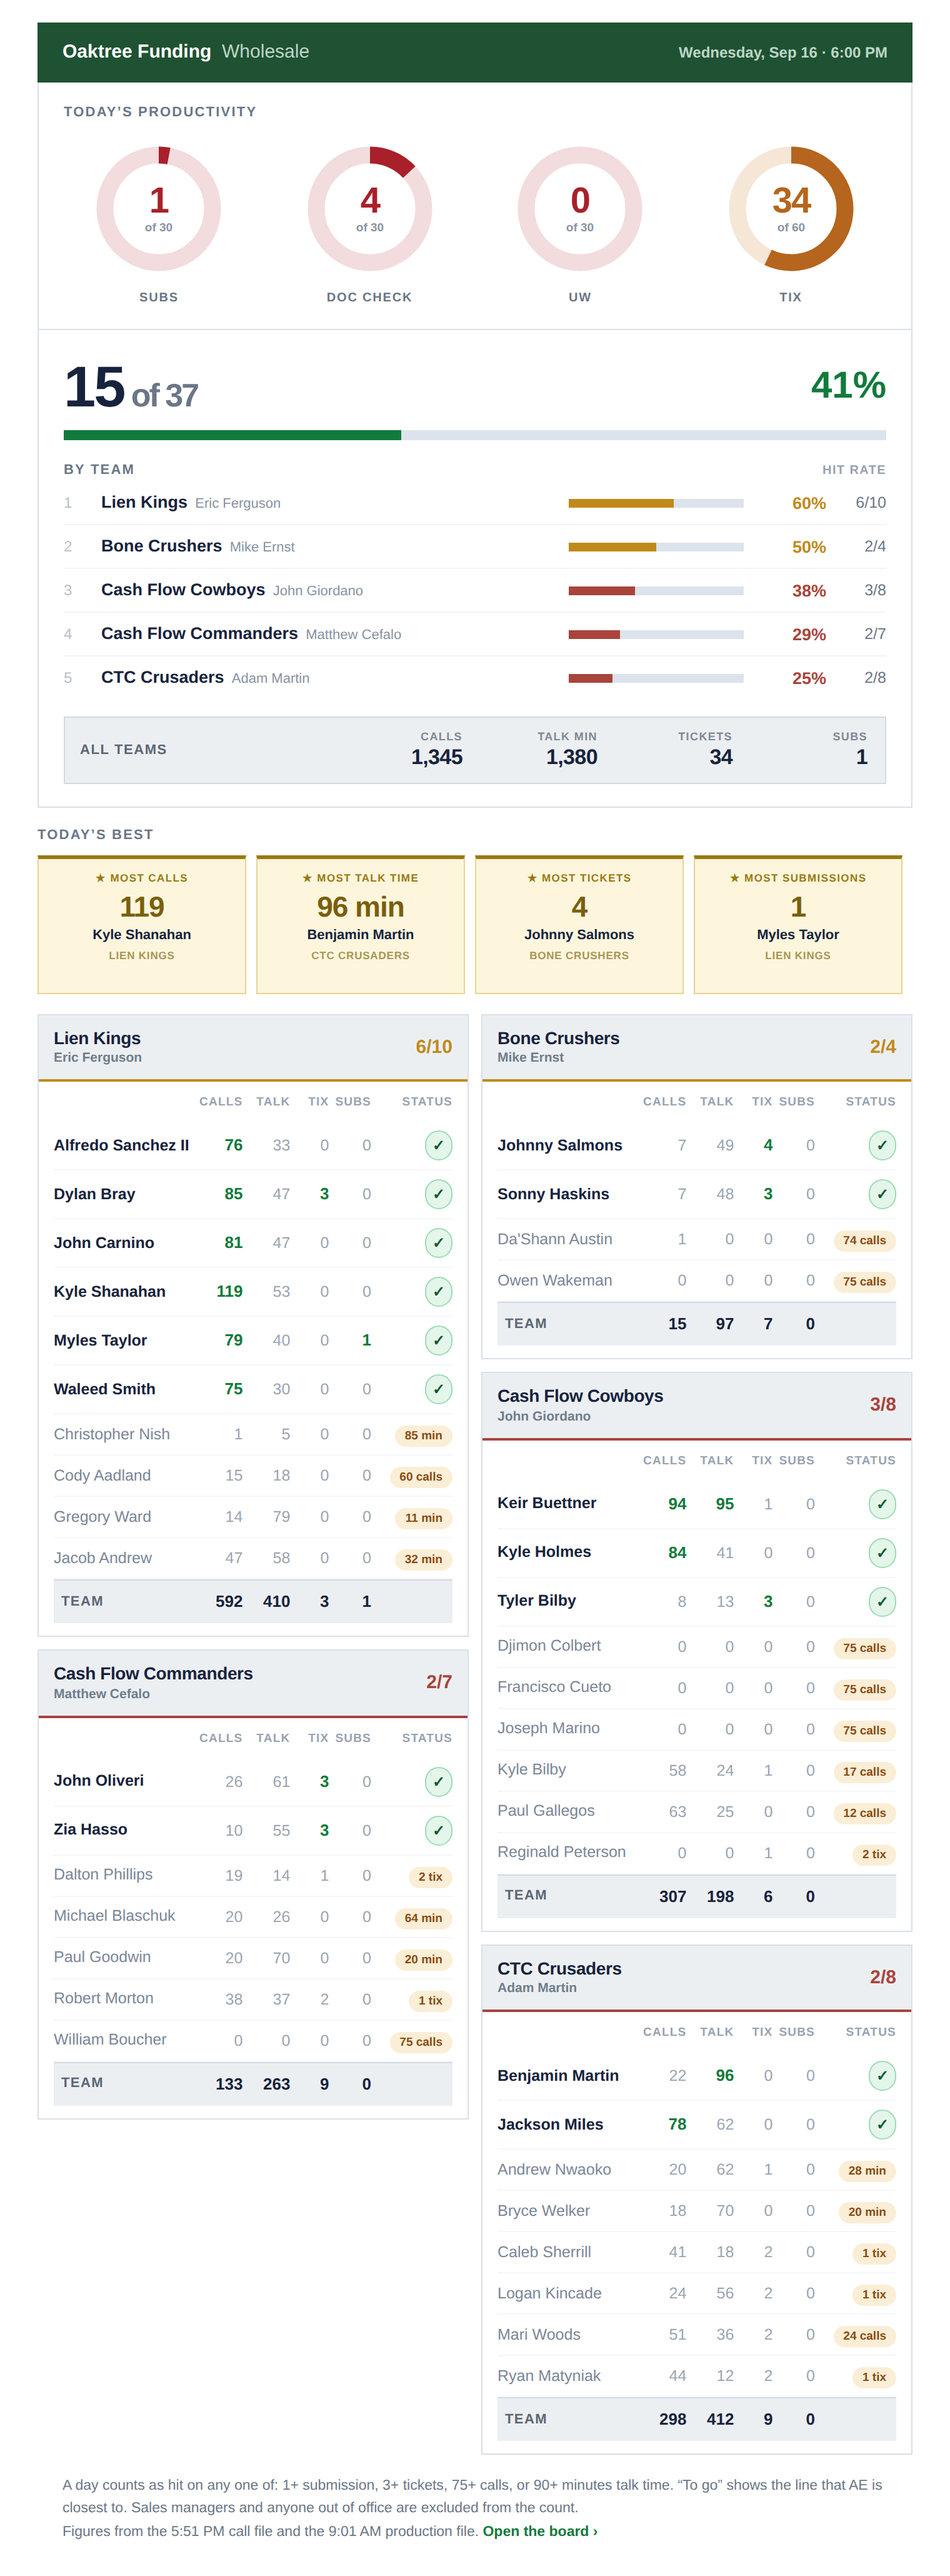
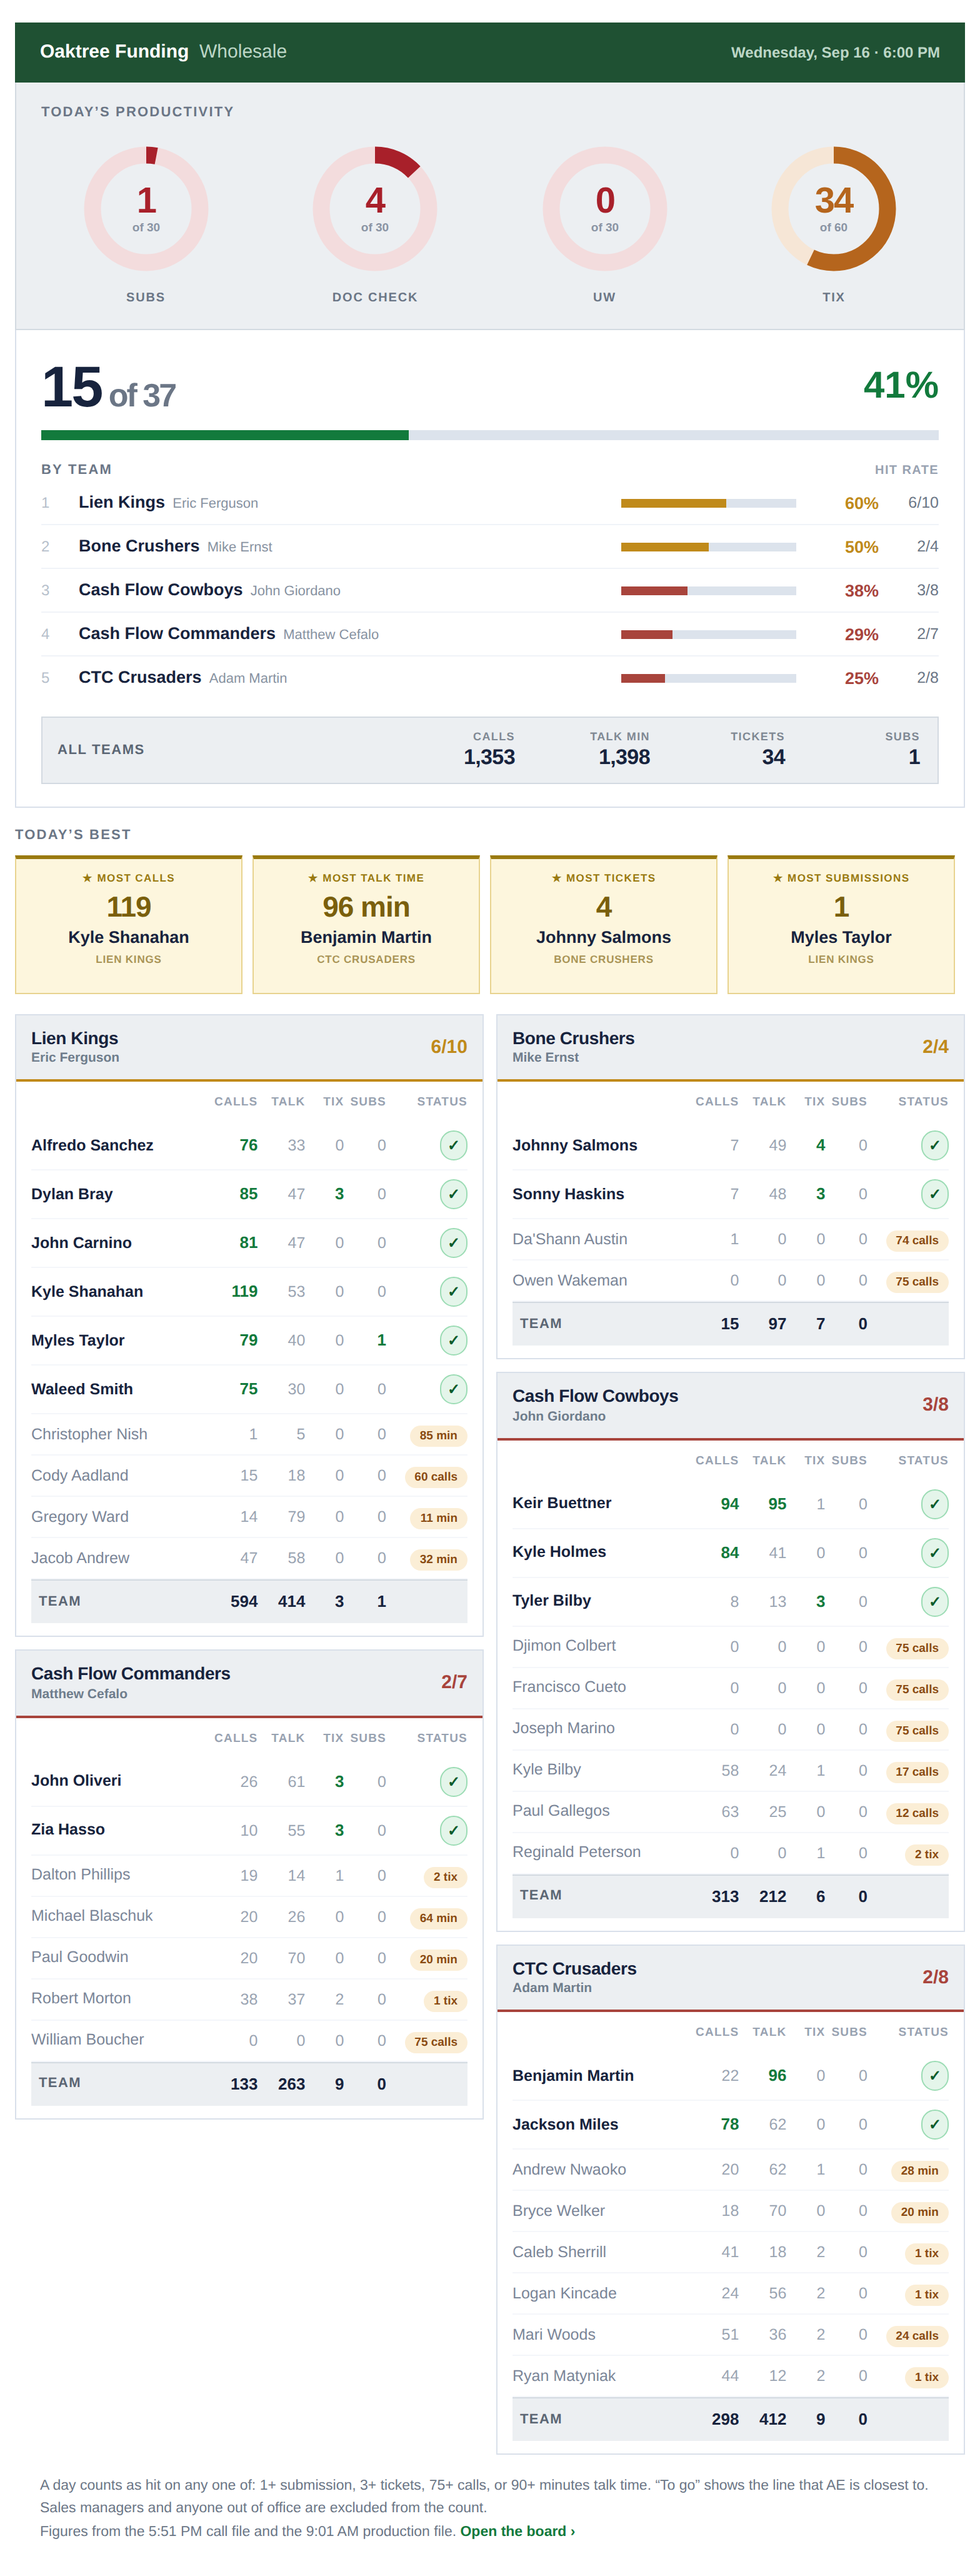
Email fixes

diff --git a/board/lib/digest.ts b/board/lib/digest.ts
@@ -11,7 +11,7 @@
 
 import type { BoardData } from "./board";
 
-const PAGE_W = 700;
+const PAGE_W = 760;
 const CALLS_GOAL = 75, TALK_GOAL = 90, SUB_GOAL = 1, TIX_GOAL = 3;
 
 const F = "-apple-system,BlinkMacSystemFont,'Segoe UI',Roboto,Helvetica,Arial,sans-serif";
@@ -29,7 +29,7 @@ type AE = {
    *  a hit the denominator never counted. */
   exempt: boolean;
 };
-type Team = { team: string; aes: AE[]; sidelined: { name: string; why: string }[]; manager: string | null; hit: number; n: number; pct: number };
+type Team = { team: string; aes: AE[]; sidelined: { name: string; why: string }[]; hidden: { calls: number; talk: number; tix: number; subs: number }[]; manager: string | null; hit: number; n: number; pct: number };
 
 /** Team rollups, using exactly the board's inclusion rules. */
 export function digestTeams(b: BoardData): { teams: Team[]; hit: number; total: number; pct: number } {
@@ -39,15 +39,21 @@ export function digestTeams(b: BoardData): { teams: Team[]; hit: number; total: 
 
   for (const r of b.rows) {
     const name = r[0], team = teamOf(r[1]);
-    if (!byTeam.has(team)) byTeam.set(team, { team, aes: [], sidelined: [], manager: null, hit: 0, n: 0, pct: 0 });
+    if (!byTeam.has(team)) byTeam.set(team, { team, aes: [], sidelined: [], hidden: [], manager: null, hit: 0, n: 0, pct: 0 });
     const g = byTeam.get(team)!;
-    if (ooo.has(name)) { g.sidelined.push({ name, why: "Out of office" }); continue; }
+    const raw = b.today[name] || [0, 0, 0];
+    const asHidden = () => g.hidden.push({
+      calls: raw[0], talk: Math.round(raw[1]), tix: b.tix[name] || 0, subs: raw[2],
+    });
+    if (ooo.has(name)) { g.sidelined.push({ name, why: "Out of office" }); asHidden(); continue; }
     if (dash.has(name)) {
       const role = b.roles?.[name];
       // A sales manager is named once in the card header, by the roster map
-      // below, and never as a dashed row among the people he manages.
-      if (role === "Sales Manager") continue;
+      // below, and never as a dashed row among the people he manages. His
+      // production still lands in the team total.
+      if (role === "Sales Manager") { asHidden(); continue; }
       g.sidelined.push({ name, why: role || "Not scored" });
+      asHidden();
       continue;
     }
     const isExempt = exempt.has(name);
@@ -224,7 +230,7 @@ const TILE_H = 86;
         + face
         + `<div style="font-family:${F};font-size:8.5px;font-weight:700;line-height:1.2;color:${dim ? "#98a2b1" : ac};letter-spacing:.7px">${!dim && gold ? "\u2605 " : ""}${l.label}</div>`
         + `<div style="font-family:${F};font-size:23px;font-weight:800;line-height:1.15;color:${dim ? "#c3cbd6" : gold ? "#7a5f0c" : ac};letter-spacing:-.5px;padding:5px 0 3px">${l.value}</div>`
-        + `<div style="font-family:${F};font-size:11px;font-weight:600;line-height:1.3;color:${INK}">${who}</div>${tie}</td></tr>`)
+        + `<div style="font-family:${F};font-size:13.5px;font-weight:700;line-height:1.3;color:${INK}">${who}</div>${tie}</td></tr>`)
       + `</td>`;
   };
   return `<tr><td style="padding:0 0 6px">`
@@ -290,8 +296,10 @@ function aeRow(a: AE) {
 /** What the team actually did today, across every row printed above it. Talk is
  *  minutes, so it sums; the others are counts. Sidelined rows contribute
  *  nothing because they have nothing to contribute. */
-function totalRow(aes: AE[], band: { bg: string; line: string; ink: string }) {
-  const sum = (f: (a: AE) => number) => aes.reduce((t, a) => t + f(a), 0);
+function totalRow(aes: AE[], hidden: { calls: number; talk: number; tix: number; subs: number }[],
+                  band: { bg: string; line: string; ink: string }) {
+  const sum = (f: (a: { calls: number; talk: number; tix: number; subs: number }) => number) =>
+    aes.reduce((t, a) => t + f(a), 0) + hidden.reduce((t, h) => t + f(h), 0);
   const cell = (v: number | string, w: number) =>
     `<td width="${w}" align="right" style="padding:8px 0 8px 5px;background:${band.bg};border-top:1px solid ${band.line}">`
     + `<span style="font-family:${F};font-size:13px;font-weight:800;line-height:1.3;color:${INK}">${v}</span></td>`;
@@ -359,7 +367,7 @@ export function dialSpecs(b: BoardData): DialSpec[] {
 
 const DIAL_PX = 112;
 
-function dialsBlock(b: BoardData, src?: Partial<Record<DialSpec["key"], string>>): string {
+function dialsBlock(b: BoardData, band: { bg: string; line: string; ink: string }, src?: Partial<Record<DialSpec["key"], string>>): string {
   const cells = dialSpecs(b).map((d) => {
     const url = src?.[d.key];
     const art = url
@@ -379,7 +387,7 @@ function dialsBlock(b: BoardData, src?: Partial<Record<DialSpec["key"], string>>
       + `<div style="font-family:${F};font-size:10px;font-weight:700;line-height:1.2;color:${MUT};letter-spacing:.9px">${d.label}</div>`
       + `</td>`;
   }).join("");
-  return `<tr><td bgcolor="#ffffff" style="background:#ffffff;border:1px solid ${LINE};border-top:0;padding:18px 12px 18px">`
+  return `<tr><td bgcolor="${band.bg}" style="background:${band.bg};border:1px solid ${band.line};border-top:0;padding:18px 12px 18px">`
     + tbl(`width="100%"`,
       `<tr><td style="font-family:${F};font-size:11px;font-weight:700;line-height:1.2;color:${MUT};letter-spacing:1.1px;padding:0 8px 14px">TODAY&rsquo;S PRODUCTIVITY</td></tr>`)
     + tbl(`width="100%"`, `<tr>${cells}</tr>`)
@@ -436,12 +444,14 @@ export function renderDigest(
   const leader = teams[0];
   const url = opts.boardUrl || "#";
   const band = BANDS[opts.band || "stone"];
-  const everyone = teams.flatMap((g) => g.aes);
+  const everyone = [...teams.flatMap((g) => g.aes), ...teams.flatMap((g) => g.hidden)];
+  const tot = (f: (a: { calls: number; talk: number; tix: number; subs: number }) => number) =>
+    everyone.reduce((t, a) => t + f(a), 0);
   const allAEs = [
-    { label: "CALLS", value: everyone.reduce((t, a) => t + a.calls, 0) },
-    { label: "TALK MIN", value: everyone.reduce((t, a) => t + a.talk, 0) },
-    { label: "TICKETS", value: everyone.reduce((t, a) => t + a.tix, 0) },
-    { label: "SUBS", value: everyone.reduce((t, a) => t + a.subs, 0) },
+    { label: "CALLS", value: tot((a) => a.calls) },
+    { label: "TALK MIN", value: tot((a) => a.talk) },
+    { label: "TICKETS", value: tot((a) => a.tix) },
+    { label: "SUBS", value: tot((a) => a.subs) },
   ];
 
   const logos = opts.photos?.logos || {};
@@ -494,7 +504,7 @@ export function renderDigest(
   const teamPhotos = opts.photos?.teams || {};
   const teamCard = (g: Team) => {
     const c = tone(g.pct);
-    const rows = headerRow() + g.aes.map(aeRow).join("") + g.sidelined.map(sideRow).join("") + totalRow(g.aes, band);
+    const rows = headerRow() + g.aes.map(aeRow).join("") + g.sidelined.map(sideRow).join("") + totalRow(g.aes, g.hidden, band);
     const tp = teamPhotos[g.team];
     const pstyle = opts.teamPhotoStyle || "thumb";
     const clean = g.n > 0 && g.hit === g.n;
@@ -558,7 +568,7 @@ export function renderDigest(
       + `<td align="right" style="font-family:${F};font-size:12px;font-weight:600;line-height:1.2;color:#bcd6c6">${esc(opts.dateLabel)} &middot; ${esc(opts.sendLabel)}</td></tr>`)
     + `</td></tr>`
     + banner
-    + dialsBlock(b, opts.dialSrc)
+    + dialsBlock(b, band, opts.dialSrc)
     + `<tr><td bgcolor="#ffffff" style="background:#ffffff;border:1px solid ${LINE};border-top:0;padding:22px 20px 18px">`
     + tbl(`width="100%"`,
       `<tr><td style="font-family:${F};font-size:46px;font-weight:800;line-height:1;color:${INK};letter-spacing:-1.5px;white-space:nowrap">${hit}<span style="font-size:26px;font-weight:600;color:${MUT}"> of ${total}</span></td>`

diff --git a/board/lib/board.ts b/board/lib/board.ts
@@ -20,7 +20,7 @@ const TEAMS: Record<string, { channel: Channel; aes: string[] }> = {
   "Cash Flow Commanders": { channel: "wholesale", aes: ["Matthew Cefalo","John Oliveri","Paul Goodwin","Robert Morton","Zia Hasso","Michael Blaschuk","Dalton Phillips","William Boucher"] },
   "Cash Flow Cowboys": { channel: "wholesale", aes: ["John Giordano","Francisco Cueto","Keir Buettner","Kyle Bilby","Kyle Holmes","Paul Gallegos","Reginald Peterson","Tyler Bilby","Djimon Colbert","Joseph Marino"] },
   "CTC Crusaders": { channel: "wholesale", aes: ["Adam Martin","Andrew Nwaoko","Bryce Welker","Caleb Sherrill","Ryan Matyniak","Benjamin Martin","Logan Kincade","Mari Woods","Jackson Miles"] },
-  "Lien Kings": { channel: "wholesale", aes: ["Eric Ferguson","Alfredo Sanchez II","Christopher Nish","Cody Aadland","Dylan Bray","John Carnino","Myles Taylor","Waleed Smith","Gregory Ward","Jacob Andrew","Kyle Shanahan"] },
+  "Lien Kings": { channel: "wholesale", aes: ["Eric Ferguson","Alfredo Sanchez","Christopher Nish","Cody Aadland","Dylan Bray","John Carnino","Myles Taylor","Waleed Smith","Gregory Ward","Jacob Andrew","Kyle Shanahan"] },
   "Bone Crushers": { channel: "wholesale", aes: ["Da'Shann Austin","Johnny Salmons","Owen Wakeman","Sonny Haskins"] },
   "Retail": { channel: "retail", aes: ["Garrett Bowlby","Tom Wright","Kenneth Kohnhorst","Robert Bosolet","Kenneth Bowlby","Eric Bowlby","Carlos Hidalgo"] },
   "Correspondent": { channel: "correspondent", aes: ["Danielle King","Hugh Sinclair","Tracy Collins"] },
@@ -140,12 +140,18 @@ const FUND = new Set(["funded","loan shipped","in purchase review","in final pur
 function norm(s: string) { return (s || "").toLowerCase().replace(/[^a-z0-9 ]/g, "").replace(/\s+/g, " ").trim(); }
 // Identity aliases: fold two spellings of the same person onto one canonical
 // key so their production, calls, and tickets combine on a single row.
-const ALIAS: Record<string, string> = { "alfredo sanchez": "alfredo sanchez ii" };
+// The export spells him both ways; the roster spelling wins.
+const ALIAS: Record<string, string> = { "alfredo sanchez ii": "alfredo sanchez" };
 function nkey(s: string) { const n = norm(s); return ALIAS[n] || n; }
 const NAME2TEAM: Record<string, string> = {};
 const NAME2DISPLAY: Record<string, string> = {};
 const TEAM2CH: Record<string, Channel> = {};
 for (const [t, d] of Object.entries(TEAMS)) { TEAM2CH[t] = d.channel; for (const a of d.aes) { NAME2TEAM[norm(a)] = t; NAME2DISPLAY[norm(a)] = a; } }
+// Every alias resolves to the same team and spelling as its canonical name.
+for (const [variant, canonical] of Object.entries(ALIAS)) {
+  if (NAME2TEAM[canonical]) NAME2TEAM[variant] = NAME2TEAM[canonical];
+  if (NAME2DISPLAY[canonical]) NAME2DISPLAY[variant] = NAME2DISPLAY[canonical];
+}
 function teamFor(ae: string) { return NAME2TEAM[norm(ae)] || ""; }
 // Canonical display spelling: the production export sometimes drops punctuation
 // (e.g. "DaShann Austin" vs the roster's "Da'Shann Austin") or uses a name

diff --git a/board/lib/dial.ts b/board/lib/dial.ts
@@ -12,13 +12,21 @@
 // something the sent mail does not.
 
 import type { DialSpec } from "./digest";
+/** Must match BANDS.stone.bg in digest.ts — the strip the dials sit on.
+ *  Kept as a literal so this module stays a leaf with no runtime imports. */
+export const DIAL_BG = "#eceff2";
 
 const SIZE = 224;              // 2x the 112px display size, for retina
 const R = 86, STROKE = 27;
 const CIRC = 2 * Math.PI * R;
 const FONT = "Helvetica Neue,Helvetica,Arial,sans-serif";
 
-export function dialSvg(d: Pick<DialSpec, "value" | "goal" | "pct" | "pending" | "unit" | "color" | "track">): string {
+/** The strip the dials sit on is tinted, so the image has to be tinted too —
+ *  a white square around each donut is the giveaway that these are pictures. */
+export function dialSvg(
+  d: Pick<DialSpec, "value" | "goal" | "pct" | "pending" | "unit" | "color" | "track">,
+  bg: string = DIAL_BG,
+): string {
   const frac = Math.max(0, Math.min(1, d.pct / 100));
   const on = (CIRC * frac).toFixed(2);
   const off = (CIRC - +on).toFixed(2);
@@ -30,7 +38,7 @@ export function dialSvg(d: Pick<DialSpec, "value" | "goal" | "pct" | "pending" |
     : "";
   const num = d.pending ? "&#8211;" : String(d.value);
   return `<svg xmlns="http://www.w3.org/2000/svg" width="${SIZE}" height="${SIZE}" viewBox="0 0 ${SIZE} ${SIZE}">`
-    + `<rect width="${SIZE}" height="${SIZE}" fill="#ffffff"/>`
+    + `<rect width="${SIZE}" height="${SIZE}" fill="${bg}"/>`
     + `<circle cx="${c}" cy="${c}" r="${R}" fill="none" stroke="${d.track}" stroke-width="${STROKE}"/>`
     + arc
     + `<text x="${c}" y="${c + 6}" text-anchor="middle" font-family="${FONT}" font-size="58" font-weight="700"`
@@ -41,8 +49,8 @@ export function dialSvg(d: Pick<DialSpec, "value" | "goal" | "pct" | "pending" |
 }
 
 /** Browser-renderable source for the preview. */
-export function dialDataUri(d: Parameters<typeof dialSvg>[0]): string {
-  const svg = dialSvg(d);
+export function dialDataUri(d: Parameters<typeof dialSvg>[0], bg: string = DIAL_BG): string {
+  const svg = dialSvg(d, bg);
   const b64 = typeof Buffer !== "undefined"
     ? Buffer.from(svg, "utf8").toString("base64")
     : btoa(unescape(encodeURIComponent(svg)));
